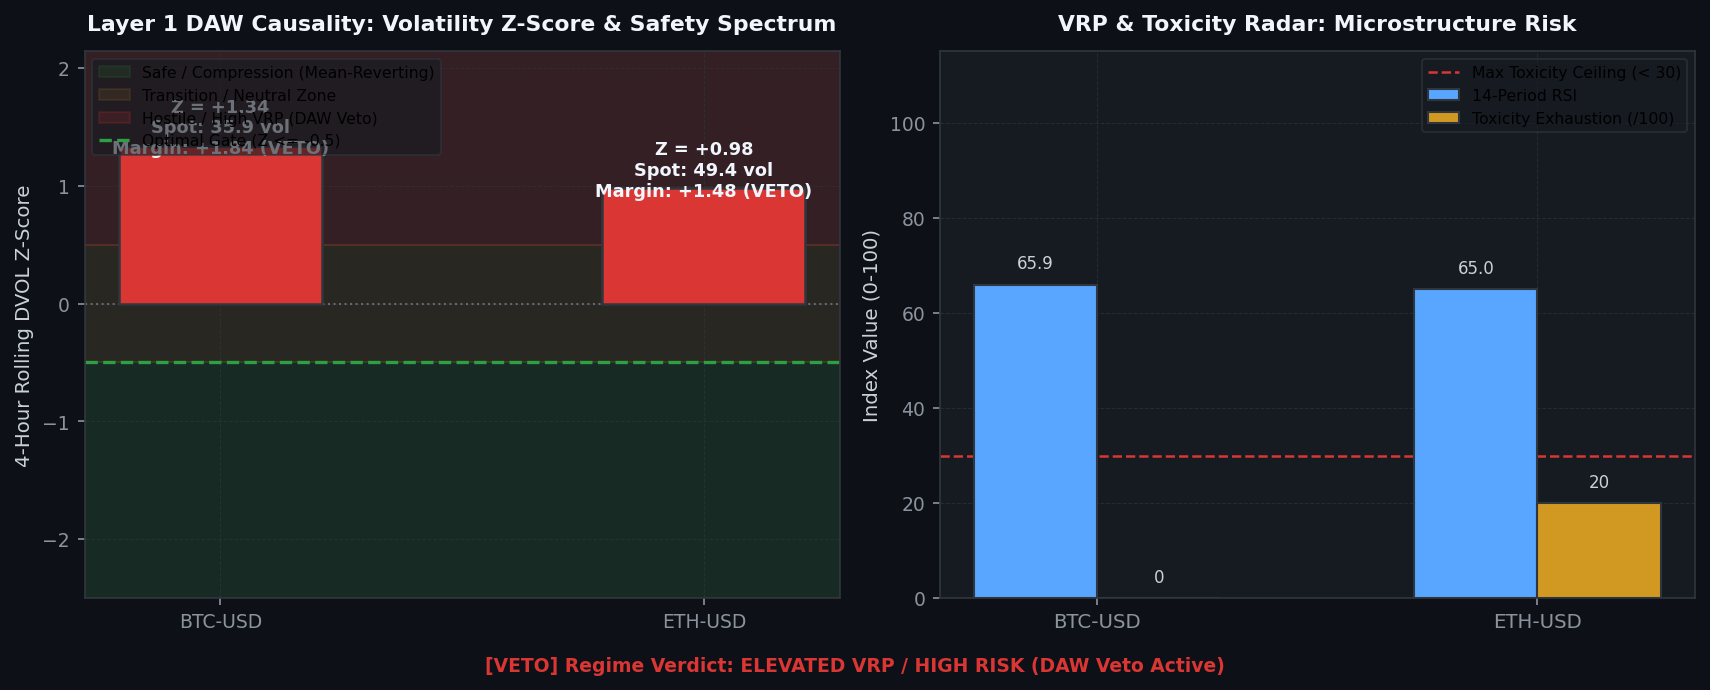
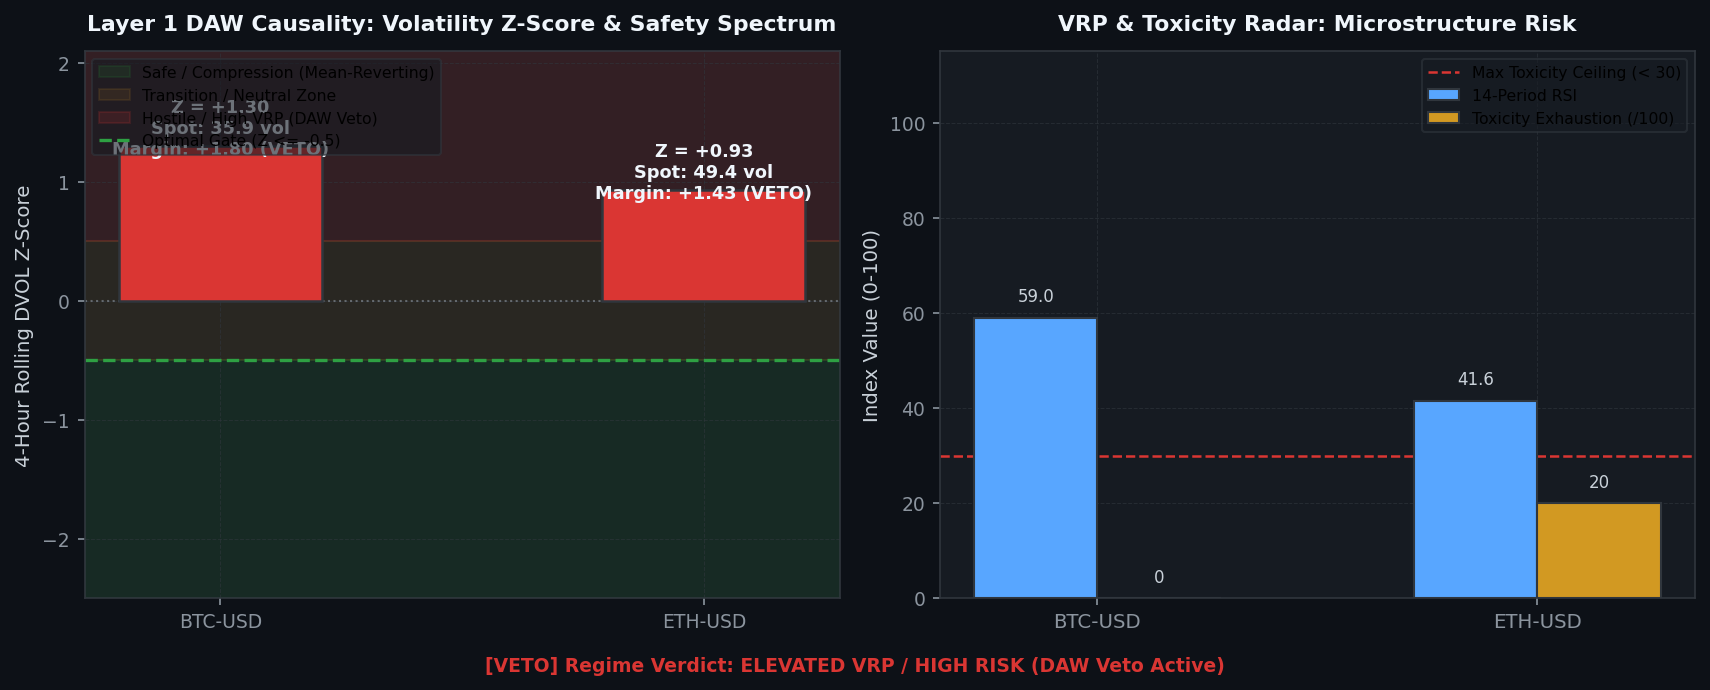
[coinbase] Hourly Status & Visual Intelligence Update: 2026-10-04 11:52:45

diff --git a/coinbase/data/hourly_status_report.md b/coinbase/data/hourly_status_report.md
@@ -3,7 +3,7 @@ layout: default
 ---
 
 # 🛡 Unified Trading System Hourly Status & Visual Intelligence
-> **Report Generated**: `2026-10-04 11:35:17 AM PDT (2026-10-04 18:35:17 UTC)`  
+> **Report Generated**: `2026-10-04 11:52:27 AM PDT (2026-10-04 18:52:27 UTC)`  
 > **System Health**: **🟡 DEGRADED / RESTRICTED** | **Win Rate**: `0.0%` | **Completed Trades**: `0`
 
 
@@ -15,13 +15,13 @@ Real-time Deribit implied volatility (DVOL) proxy tracking against mathematicall
 
 | Symbol | Proxy Oracle | Live Z-Score | Optimal Limit (YSP) | Safety Margin | Live VRP | Optimal VRP (YSP) | DAW Safety Verdict |
 | :--- | :--- | :--- | :--- | :--- | :--- | :--- | :--- |
-| `BTC-USD` | DVOL_BTC | **+1.34** | **-0.50** | **+1.84** | **+22.91** | -1.0 | 🔴 DAW VETOED |
-| `ETH-USD` | DVOL_ETH | **+0.98** | **-0.50** | **+1.48** | **+39.13** | -1.0 | 🔴 DAW VETOED |
-| `SOL-USD` | DVOL_BTC | **+1.34** | **-0.50** | **+1.84** | **+22.89** | -1.0 | 🔴 DAW VETOED |
-| `DOGE-USD` | DVOL_BTC | **+1.34** | **-0.50** | **+1.84** | **+22.89** | -1.0 | 🔴 DAW VETOED |
-| `AVAX-USD` | DVOL_BTC | **+1.34** | **-0.50** | **+1.84** | **+22.91** | -1.0 | 🔴 DAW VETOED |
-| `LINK-USD` | DVOL_BTC | **+1.34** | **-0.50** | **+1.84** | **+22.91** | -1.0 | 🔴 DAW VETOED |
-| `XRP-USD` | DVOL_BTC | **+1.34** | **-0.50** | **+1.84** | **+22.89** | 5.0 | 🔴 DAW VETOED |
+| `BTC-USD` | DVOL_BTC | **+1.30** | **-0.50** | **+1.80** | **+22.91** | -1.0 | 🔴 DAW VETOED |
+| `ETH-USD` | DVOL_ETH | **+0.93** | **-0.50** | **+1.43** | **+39.13** | -1.0 | 🔴 DAW VETOED |
+| `SOL-USD` | DVOL_BTC | **+1.30** | **-0.50** | **+1.80** | **+22.89** | -1.0 | 🔴 DAW VETOED |
+| `DOGE-USD` | DVOL_BTC | **+1.30** | **-0.50** | **+1.80** | **+22.89** | -1.0 | 🔴 DAW VETOED |
+| `AVAX-USD` | DVOL_BTC | **+1.30** | **-0.50** | **+1.80** | **+22.91** | -1.0 | 🔴 DAW VETOED |
+| `LINK-USD` | DVOL_BTC | **+1.30** | **-0.50** | **+1.80** | **+22.91** | -1.0 | 🔴 DAW VETOED |
+| `XRP-USD` | DVOL_BTC | **+1.30** | **-0.50** | **+1.80** | **+22.89** | 5.0 | 🔴 DAW VETOED |
 
 
 
@@ -37,12 +37,12 @@ We hereby certify that the mission-critical algorithmic data assets uploaded by 
 
 | Status | Data Asset | Freshness / State | Details / Timestamp |
 | :---: | :--- | :--- | :--- |
-| ✅ | **Go-List JSON** | Fresh (154.40h old) | 09-28 01:11 |
-| ✅ | **TimesFM Forecasts** | Fresh (3.53h old) | 10-04 08:03 |
-| ✅ | **Holding Times config** | Fresh (154.40h old) | 09-28 01:11 |
-| ✅ | **BTC DVOL Cache** | Fresh (0.01h old) | 10-04 11:35 |
-| ✅ | **ETH DVOL Cache** | Fresh (0.00h old) | 10-04 11:35 |
-| ❌ | **Live Causal Telemetry** | STALE! (455.9h old) | Limit 0.5h |
+| ✅ | **Go-List JSON** | Fresh (154.69h old) | 09-28 01:11 |
+| ✅ | **TimesFM Forecasts** | Fresh (3.82h old) | 10-04 08:03 |
+| ✅ | **Holding Times config** | Fresh (154.69h old) | 09-28 01:11 |
+| ✅ | **BTC DVOL Cache** | Fresh (0.01h old) | 10-04 11:52 |
+| ✅ | **ETH DVOL Cache** | Fresh (0.01h old) | 10-04 11:52 |
+| ❌ | **Live Causal Telemetry** | STALE! (456.2h old) | Limit 0.5h |
 
 <br>
 
@@ -98,8 +98,8 @@ Operational telemetry of the high-velocity stablecoin market-making and VIP fee 
 | **Active BUY Tranches** | **0 Orders** (`$0.00 USD`) | Resting Limit Bids pegged to Best Bid |
 | **Active SELL Tranches** | **0 Orders** (`$0.00 USDT`) | Resting Limit Asks pegged to Best Ask |
 | **Total Deployed U/U Capital** | **`$0.00 USD`** | Active bidirectional turnover liquidity pool |
-| **Rolling 30-Day Volume** | **`$28,753.46 USD`** | **Advanced 1** (Maker: **0.35%** / 35 bps, Taker: **0.75%**) |
-| **Next Tier Milestone (Advanced 2)** | **57.5% Complete** | `$21,246.54 USD` to reach $50,000.00 threshold |
+| **Rolling 30-Day Volume** | **`$16,335.99 USD`** | **Advanced 1** (Maker: **0.35%** / 35 bps, Taker: **0.75%**) |
+| **Next Tier Milestone (Advanced 2)** | **32.7% Complete** | `$33,664.01 USD` to reach $50,000.00 threshold |
 
 
 ---
@@ -135,14 +135,14 @@ Live balance sheet and open maker liquidity positions from Coinbase CDP.
 ## 6. 🤖 Foundation Model MLOps & Pipeline Orchestration
 Weekly Algorithmic Mega Cap selection, Zero-shot multi-step forward return forecasts, and VSTEF parameter grid search status.
 
-- **TimesFM Forecast DB**: 🟢 Updated 3.5h ago (2026-10-04 08:03 AM PDT)
+- **TimesFM Forecast DB**: 🟢 Updated 3.8h ago (2026-10-04 08:03 AM PDT)
 - **Last Weekly VSTEF Optimization**: `2026-09-28 01:10:22 AM PDT`
-- **Next Scheduled VSTEF Run**: `2026-10-04 07:00:00 PM PDT (Monday 02:00 UTC)` (Countdown: **7.4h (0d 7h 24m)**)
+- **Next Scheduled VSTEF Run**: `2026-10-04 07:00:00 PM PDT (Monday 02:00 UTC)` (Countdown: **7.1h (0d 7h 7m)**)
 - **Promoted Parameter Gates**: $Z_{DVOL} \le -0.5$ | Holding Horizon $= 12\text{h}$
 
 ### Algorithmic Mega Cap Selection
 - **Last Run (Confirmation)**: `2026-09-28 01:11:12 AM PDT`
-- **Next Scheduled Run**: `2026-10-04 06:00:00 PM PDT (Monday 01:00 UTC)` (Countdown: **6.4h (0d 6h 24m)**)
+- **Next Scheduled Run**: `2026-10-04 06:00:00 PM PDT (Monday 01:00 UTC)` (Countdown: **6.1h (0d 6h 7m)**)
 - **Selected Mega Cap Universe**: `BTC, ETH, SOL, DOGE, AVAX, LINK, XRP`
 
 
@@ -158,7 +158,7 @@ Visualizing the impact of the VSTEF (Volatility-Synchronized Stop-Tightening Exe
 ================================================================================
    🛡  CAUSAL HFT GUARDIAN WATCHDOG v7.0.0 (CANARY ACTIVE)
 ================================================================================
-2454565  1-22:59:17  0.0  0.0 /opt/hft_trader/venv/bin/python -u guardian_causal.py
+2454565  1-23:16:27  0.0  0.0 /opt/hft_trader/venv/bin/python -u guardian_causal.py
 ```
 
 ---

diff --git a/coinbase/data/visual_intelligence.md b/coinbase/data/visual_intelligence.md
@@ -4,7 +4,7 @@ title: Visual Intelligence Gallery
 ---
 
 # 📈 Visual Intelligence Gallery
-> **Generated:** `2026-10-04 11:35:35`
+> **Generated:** `2026-10-04 11:52:45`
 > **[Return to Main Status Report](./hourly_status_report.md)**
 
 This page visualizes the internal states, market profiles, and decision criteria of the active **3-Tier Fused Decision Engine** across all layers.
